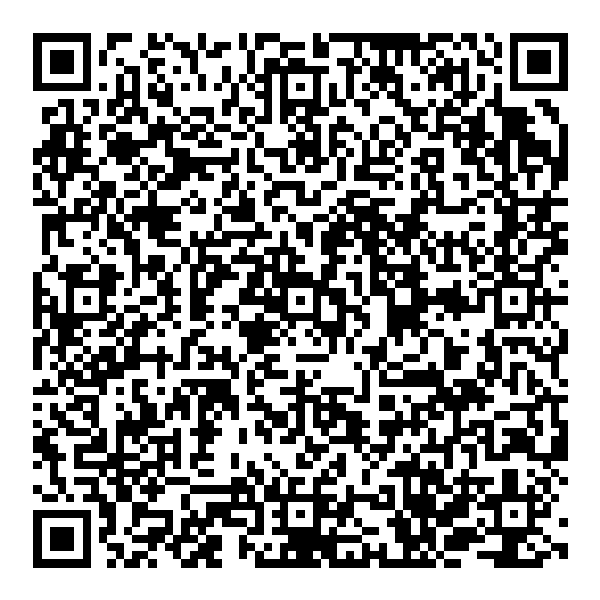
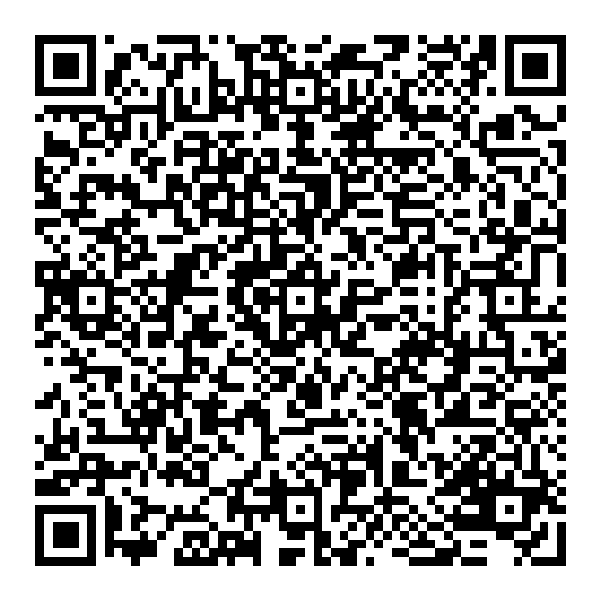
feat(contact,42): point WhatsApp at the number and state the orbits
Contact now goes straight to the number instead of through the short link:
wa.me/244953700636, verified with curl -IL to 302 into
api.whatsapp.com/send/?type=phone_number and answer 200. The prefill was
rewritten to match what the page is actually about — "vi o seu portfólio e
gostaria de falar sobre um projeto de software" — because the old link's own
prefill talked about a product, which is not this page. The QR is regenerated
from the new link.

42 Luanda is no longer described as "Fase 1..4". The orbit numbering is real
and it is now stated: Orbit 0 is Libft, Orbit 1 is ft_printf, get_next_line and
born2beroot, and Orbit 6 is ft_transcendence plus the final exam. The status
block follows the same logic: rank 5 now, the exam takes it to rank 6.

Orbits 2 to 5 are my own thematic grouping of the standard 42 common core
(push_swap through minishell, then NetPractice/cub3d/ft_irc, then CPP00-CPP09,
then webserv/Inception), ordered by what each one unlocked rather than by
curriculum order. Orbit 6 says plainly that it is not a conclusion yet.

diff --git a/src/lib/data.ts b/src/lib/data.ts
@@ -7,14 +7,15 @@
    live HTTP request. Where a competence comes from a course rather than from
    practice, it is labelled as contact/training and never as a delivered skill. */
 
-/* WhatsApp click-to-chat. This is a short link on purpose: the page never exposes
-   a phone number, not in text, not in metadata, not in the URL.
-   Note: wa.link/f5vghle (with a trailing "e") is a typo that resolves to
-   oops.wa.link — the working link is wa.link/f5vghl. Verified with curl -IL.
+/* WhatsApp click-to-chat, direct to the number. Verified with curl -IL: it 302s to
+   api.whatsapp.com/send/?phone=244953700636&type=phone_number and answers 200.
    Keep this in sync with the QR image at src/assets/whatsapp-qr.png. */
-const whatsappLink = "https://wa.link/f5vghl";
+const whatsappLink = "https://wa.me/244953700636";
+/* Prefill is written from the visitor's side, because that is what WhatsApp sends
+   to me: it has to make sense as the opening line of someone who read the page
+   and wants to work together — not a generic product enquiry. */
 const whatsappMessage =
-  "Olá, Flávio! Vi o seu portfólio e gostaria de falar sobre uma oportunidade.";
+  "Olá, Flávio! Vi o seu portfólio e gostaria de falar sobre um projeto de software.";
 
 export const profile = {
   name: "Flávio Garcia",
@@ -23,6 +24,12 @@ export const profile = {
   github: "https://github.com/FlavioFj20",
   linkedin: "https://ao.linkedin.com/in/fl%C3%A1vio-garcia-1b63aa368",
   whatsapp: `${whatsappLink}?text=${encodeURIComponent(whatsappMessage)}`,
+  /* Factual one-paragraph summary, used as the machine-readable description of
+     the person (schema.org) and of the page. Kept separate from the metadata
+     `description`, which is tuned for a search snippet and carries keywords
+     this one does not need. */
+  summary:
+    "Software Developer em Luanda, Angola. Constrói APIs e serviços backend em Node.js e TypeScript, com base em bases de dados, Linux, containers, infraestrutura e redes de computadores. Está a fazer a formation na 42 Luanda e aceita projetos de desenvolvimento, incluindo trabalho ao nível da rede.",
 } as const;
 
 /* One sentence for the hero. Leads with what I do, not with where I studied. */
@@ -386,35 +393,53 @@ export const school42 = {
   lead: "Entrei em maio de 2025. A formação é baseada em projetos, avaliação por pares e resolução de problemas sem slides: cada etapa só avança quando o projeto funciona.",
   status: [
     { label: "Entrada", value: "Maio de 2025" },
-    { label: "Posição", value: "Cadete" },
+    { label: "Posição", value: "Rank 5" },
     { label: "Agora", value: "A desenvolver o ft_transcendence" },
-    { label: "Depois", value: "1 projeto + 1 exame" },
+    { label: "Depois", value: "O exame final, para rank 6" },
   ],
   capacityNote:
-    "A pergunta que interessa a cada fase não é o que fiz, mas que capacidade me deu.",
+    "A pergunta que interessa a cada órbita não é o que fiz, mas que capacidade me deu.",
   phases: [
     {
-      label: "Fase 1",
-      title: "Fundamentos de C e sistemas",
-      projects: ["Libft", "ft_printf", "get_next_line", "Born2beroot"],
+      label: "Orbit 0",
+      title: "Primeiros programas em C",
+      projects: ["Libft"],
       skills: [
         "C",
         "memória e pointers",
         "file descriptors",
         "Makefile",
         "GNU/Linux",
-        "shell scripting",
       ],
       enables: [
-        "Trabalhar de forma consciente com memória e recursos",
-        "Compilar, automatizar e gerir um ambiente Linux",
+        "Escrever em C e perceber o que a máquina faz com cada byte",
+        "Compilar e automatizar com Makefile",
       ],
       shift:
-        "Deixei de tratar o computador como uma caixa-preta: cada programa passa a ter um custo, um limite e uma intenção.",
+        "O computador deixou de ser uma caixa-preta: cada programa passou a ter um custo, um limite e uma intenção.",
     },
     {
-      label: "Fase 2",
-      title: "Algoritmos, processos e comunicação",
+      label: "Orbit 1",
+      title: "Biblioteca, parsing e o sistema",
+      projects: ["ft_printf", "get_next_line", "born2beroot"],
+      skills: [
+        "biblioteca padrão de C",
+        "formatação e parsing",
+        "permissões de ficheiros",
+        "processos e sinais",
+        "shell scripting",
+        "administração de Linux",
+      ],
+      enables: [
+        "Construir do zero o que normalmente se dá por garantido",
+        "Instalar, configurar e gerir um ambiente Linux",
+      ],
+      shift:
+        "Percebi que “usar a biblioteca” e “escrever a biblioteca” são competências diferentes.",
+    },
+    {
+      label: "Orbit 2",
+      title: "Algoritmos, processos e concorrência",
       projects: [
         "push_swap",
         "so_long",
@@ -425,7 +450,7 @@ export const school42 = {
       skills: [
         "algoritmos e complexidade",
         "estruturas de dados",
-        "signals, pipes e file descriptors",
+        "sinais, pipes e file descriptors",
         "threads, mutexes e sincronização",
         "parsing e gestão de processos",
       ],
@@ -438,28 +463,46 @@ export const school42 = {
         "Aprendi a medir antes de otimizar, e a ler código escrito por outras pessoas.",
     },
     {
-      label: "Fase 3",
-      title: "C++, gráficos e redes",
-      projects: ["NetPractice", "cub3d", "ft_irc", "CPP00–CPP09"],
+      label: "Orbit 3",
+      title: "Rede e gráficos",
+      projects: ["NetPractice", "cub3d", "ft_irc"],
       skills: [
-        "orientação a objetos",
-        "templates e STL",
         "endereçamento IP e subnetting",
         "routing",
         "protocolos de comunicação",
+        "rasters e renderização",
+        "automação de build",
       ],
       enables: [
-        "Estruturar aplicações com OOP, templates e STL",
         "Calcular e interpretar endereçamento IPv4 e sub-redes",
         "Compreender como hosts e serviços comunicam entre si",
+        "Escrever um cliente que desenha e um servidor que aceita ligações",
       ],
       shift:
         "Percebi que rede é, antes de mais, um problema de endereçamento — e só depois um problema de equipamento.",
     },
     {
-      label: "Fase 4",
+      label: "Orbit 4",
+      title: "C++ e orientação a objetos",
+      projects: ["CPP00–CPP09"],
+      skills: [
+        "orientação a objetos",
+        "herança e polimorfismo",
+        "templates e STL",
+        "regras de construção de classes",
+        "exceções e RAII",
+      ],
+      enables: [
+        "Estruturar aplicações com OOP, templates e STL",
+        "Decidir quando a abstração compensa e quando só acrescenta custo",
+      ],
+      shift:
+        "A herança deixou de ser a resposta automática e passou a ser uma escolha com um custo conhecido.",
+    },
+    {
+      label: "Orbit 5",
       title: "Web e infraestrutura",
-      projects: ["Webserv", "Inception", "ft_transcendence — em desenvolvimento"],
+      projects: ["Webserv", "Inception"],
       skills: [
         "HTTP e servidores web",
         "containers e Docker Compose",
@@ -475,6 +518,26 @@ export const school42 = {
       ],
       shift:
         "Um serviço deixou de ser “algo que corre” para ser algo com dependências, rede e estado — e isso muda a forma de o desenhar.",
+    },
+    {
+      label: "Orbit 6",
+      title: "Especialização e exame final",
+      projects: ["ft_transcendence — em desenvolvimento", "Exame final"],
+      skills: [
+        "arquitetura de aplicações",
+        "TypeScript e frameworks de backend",
+        "tempo real com WebSockets",
+        "modelação e relacionamentos",
+        "autenticação e autorização",
+        "documentação de API",
+        "testes",
+      ],
+      enables: [
+        "Conceber e construir uma aplicação completa, do modelo de dados à entrega",
+        "Tocar o exame final e fechar a formation em rank 6",
+      ],
+      shift:
+        "Ainda não é uma conclusão: é o projeto que vai juntar tudo o que sei fazer numa peça que funciona de ponta a ponta.",
     },
   ] satisfies readonly Phase[],
   /* Flagged as the practical infrastructure evidence it is. */
